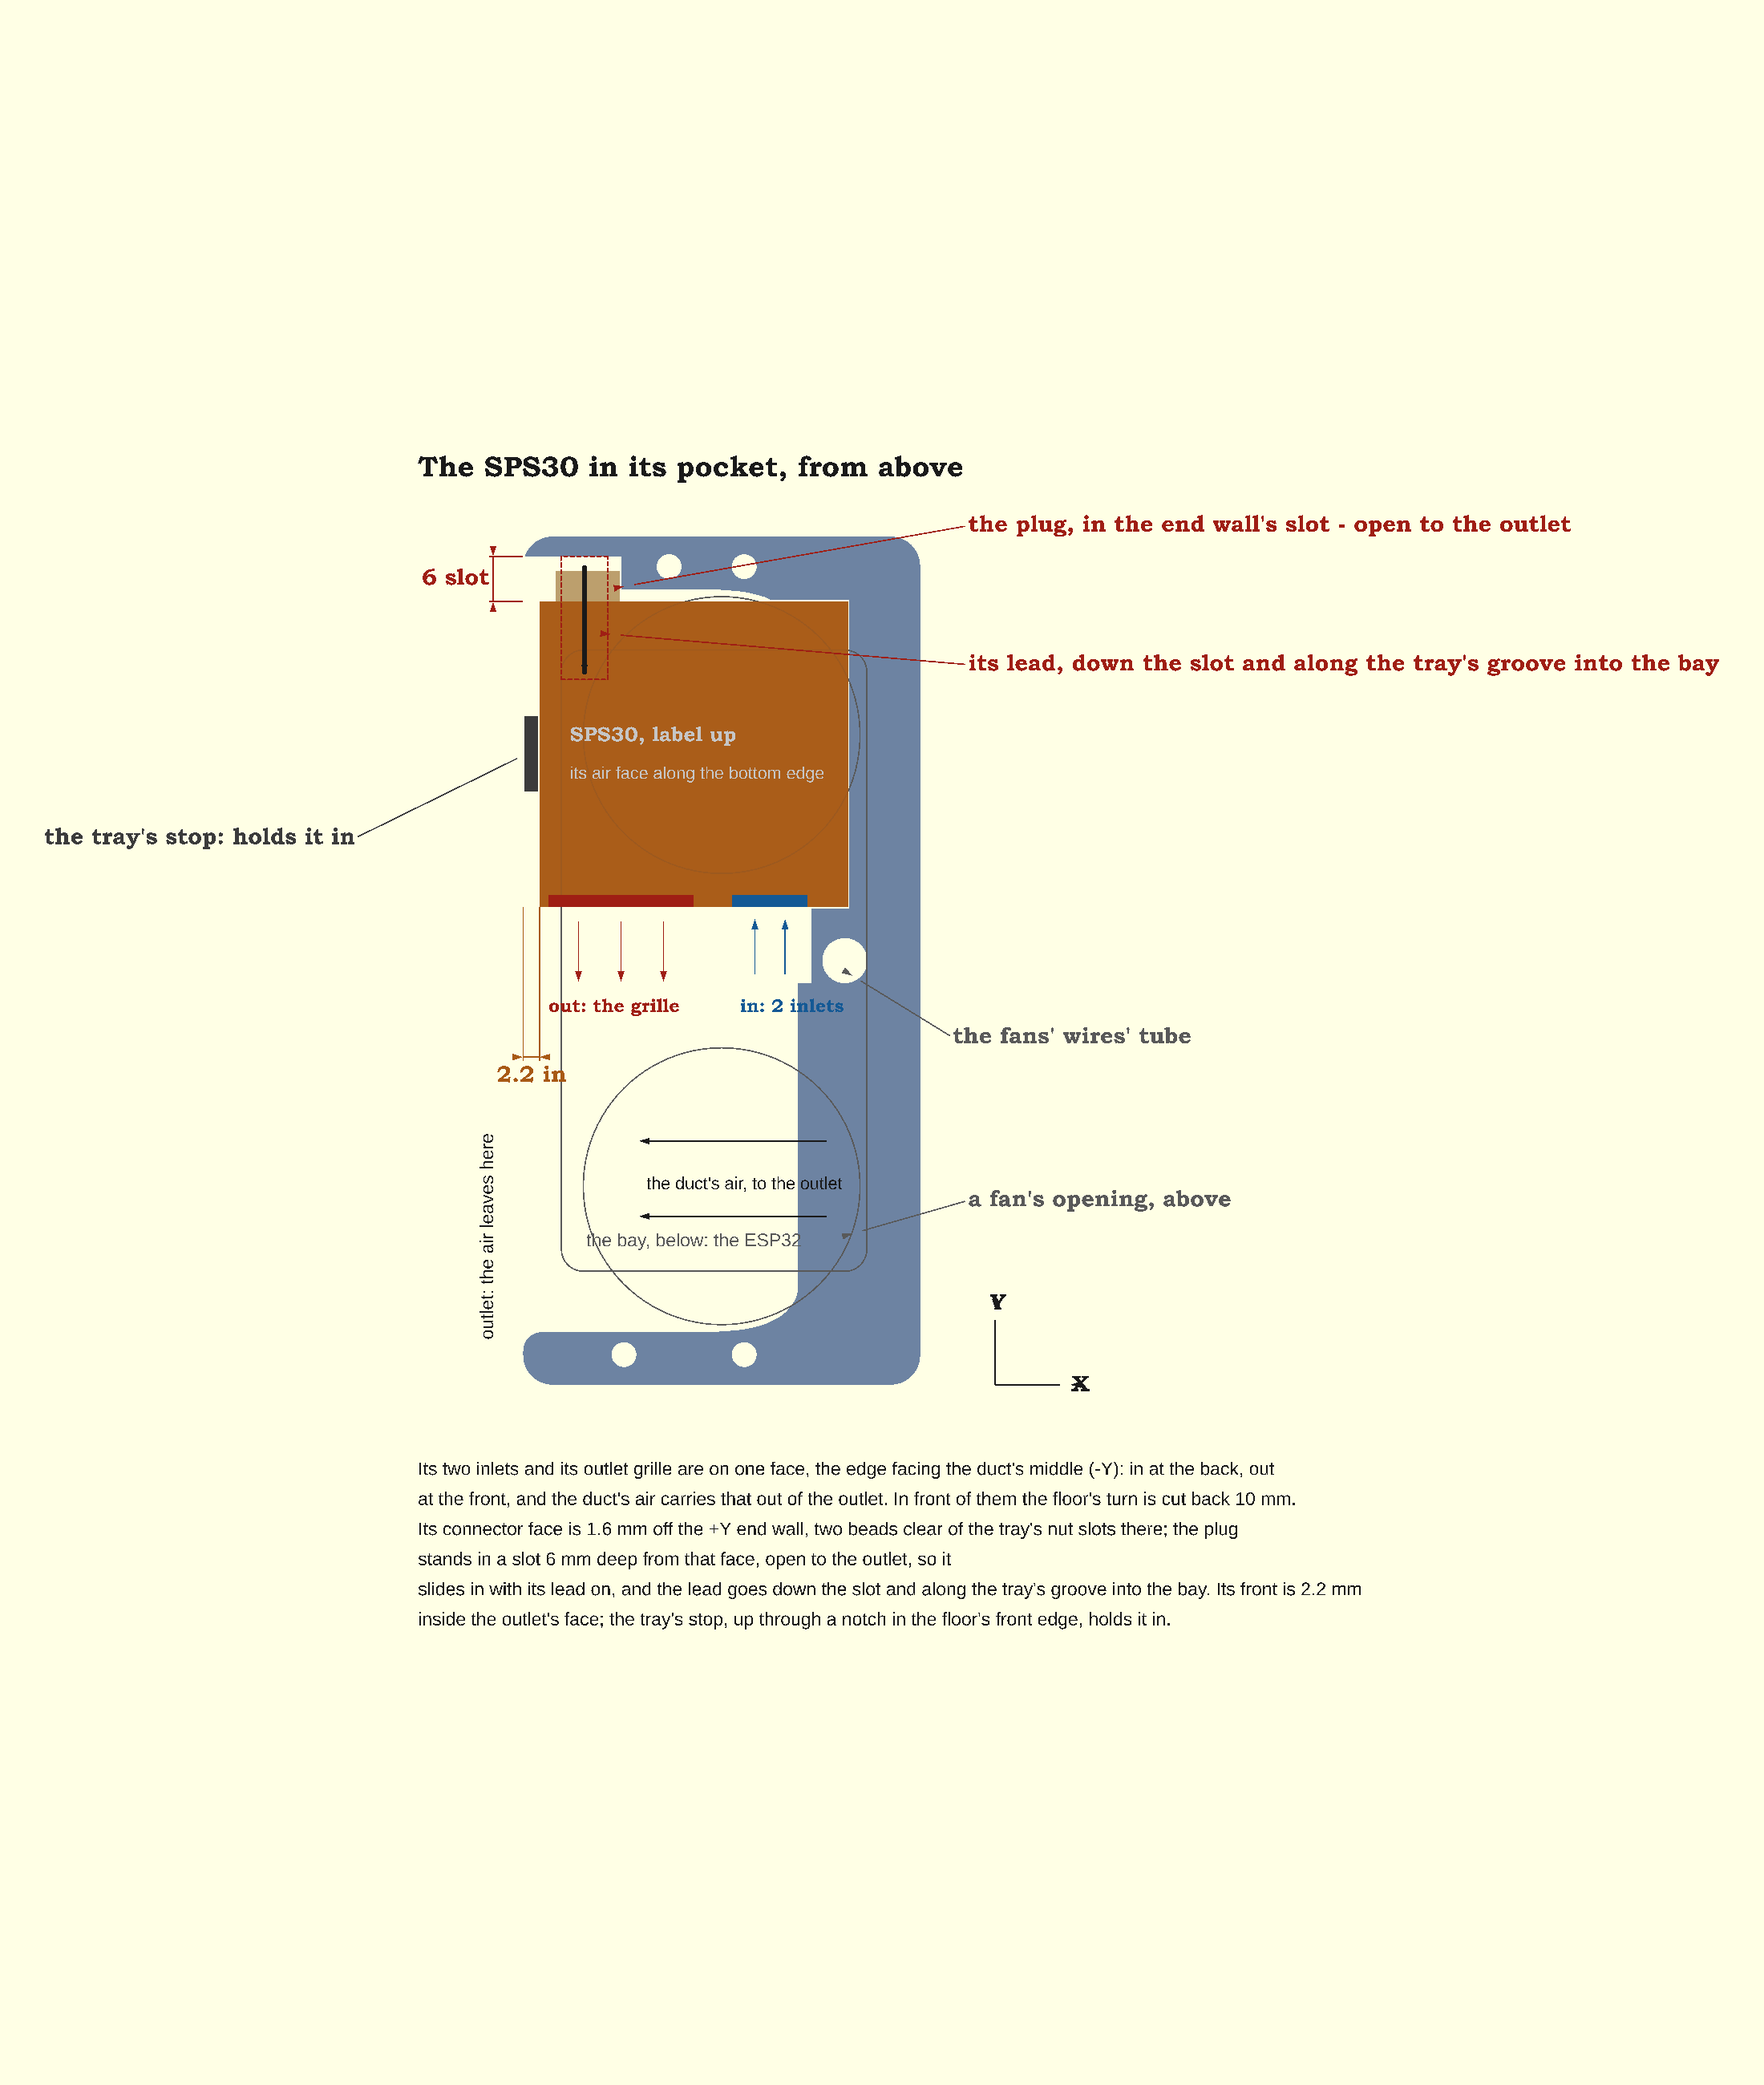
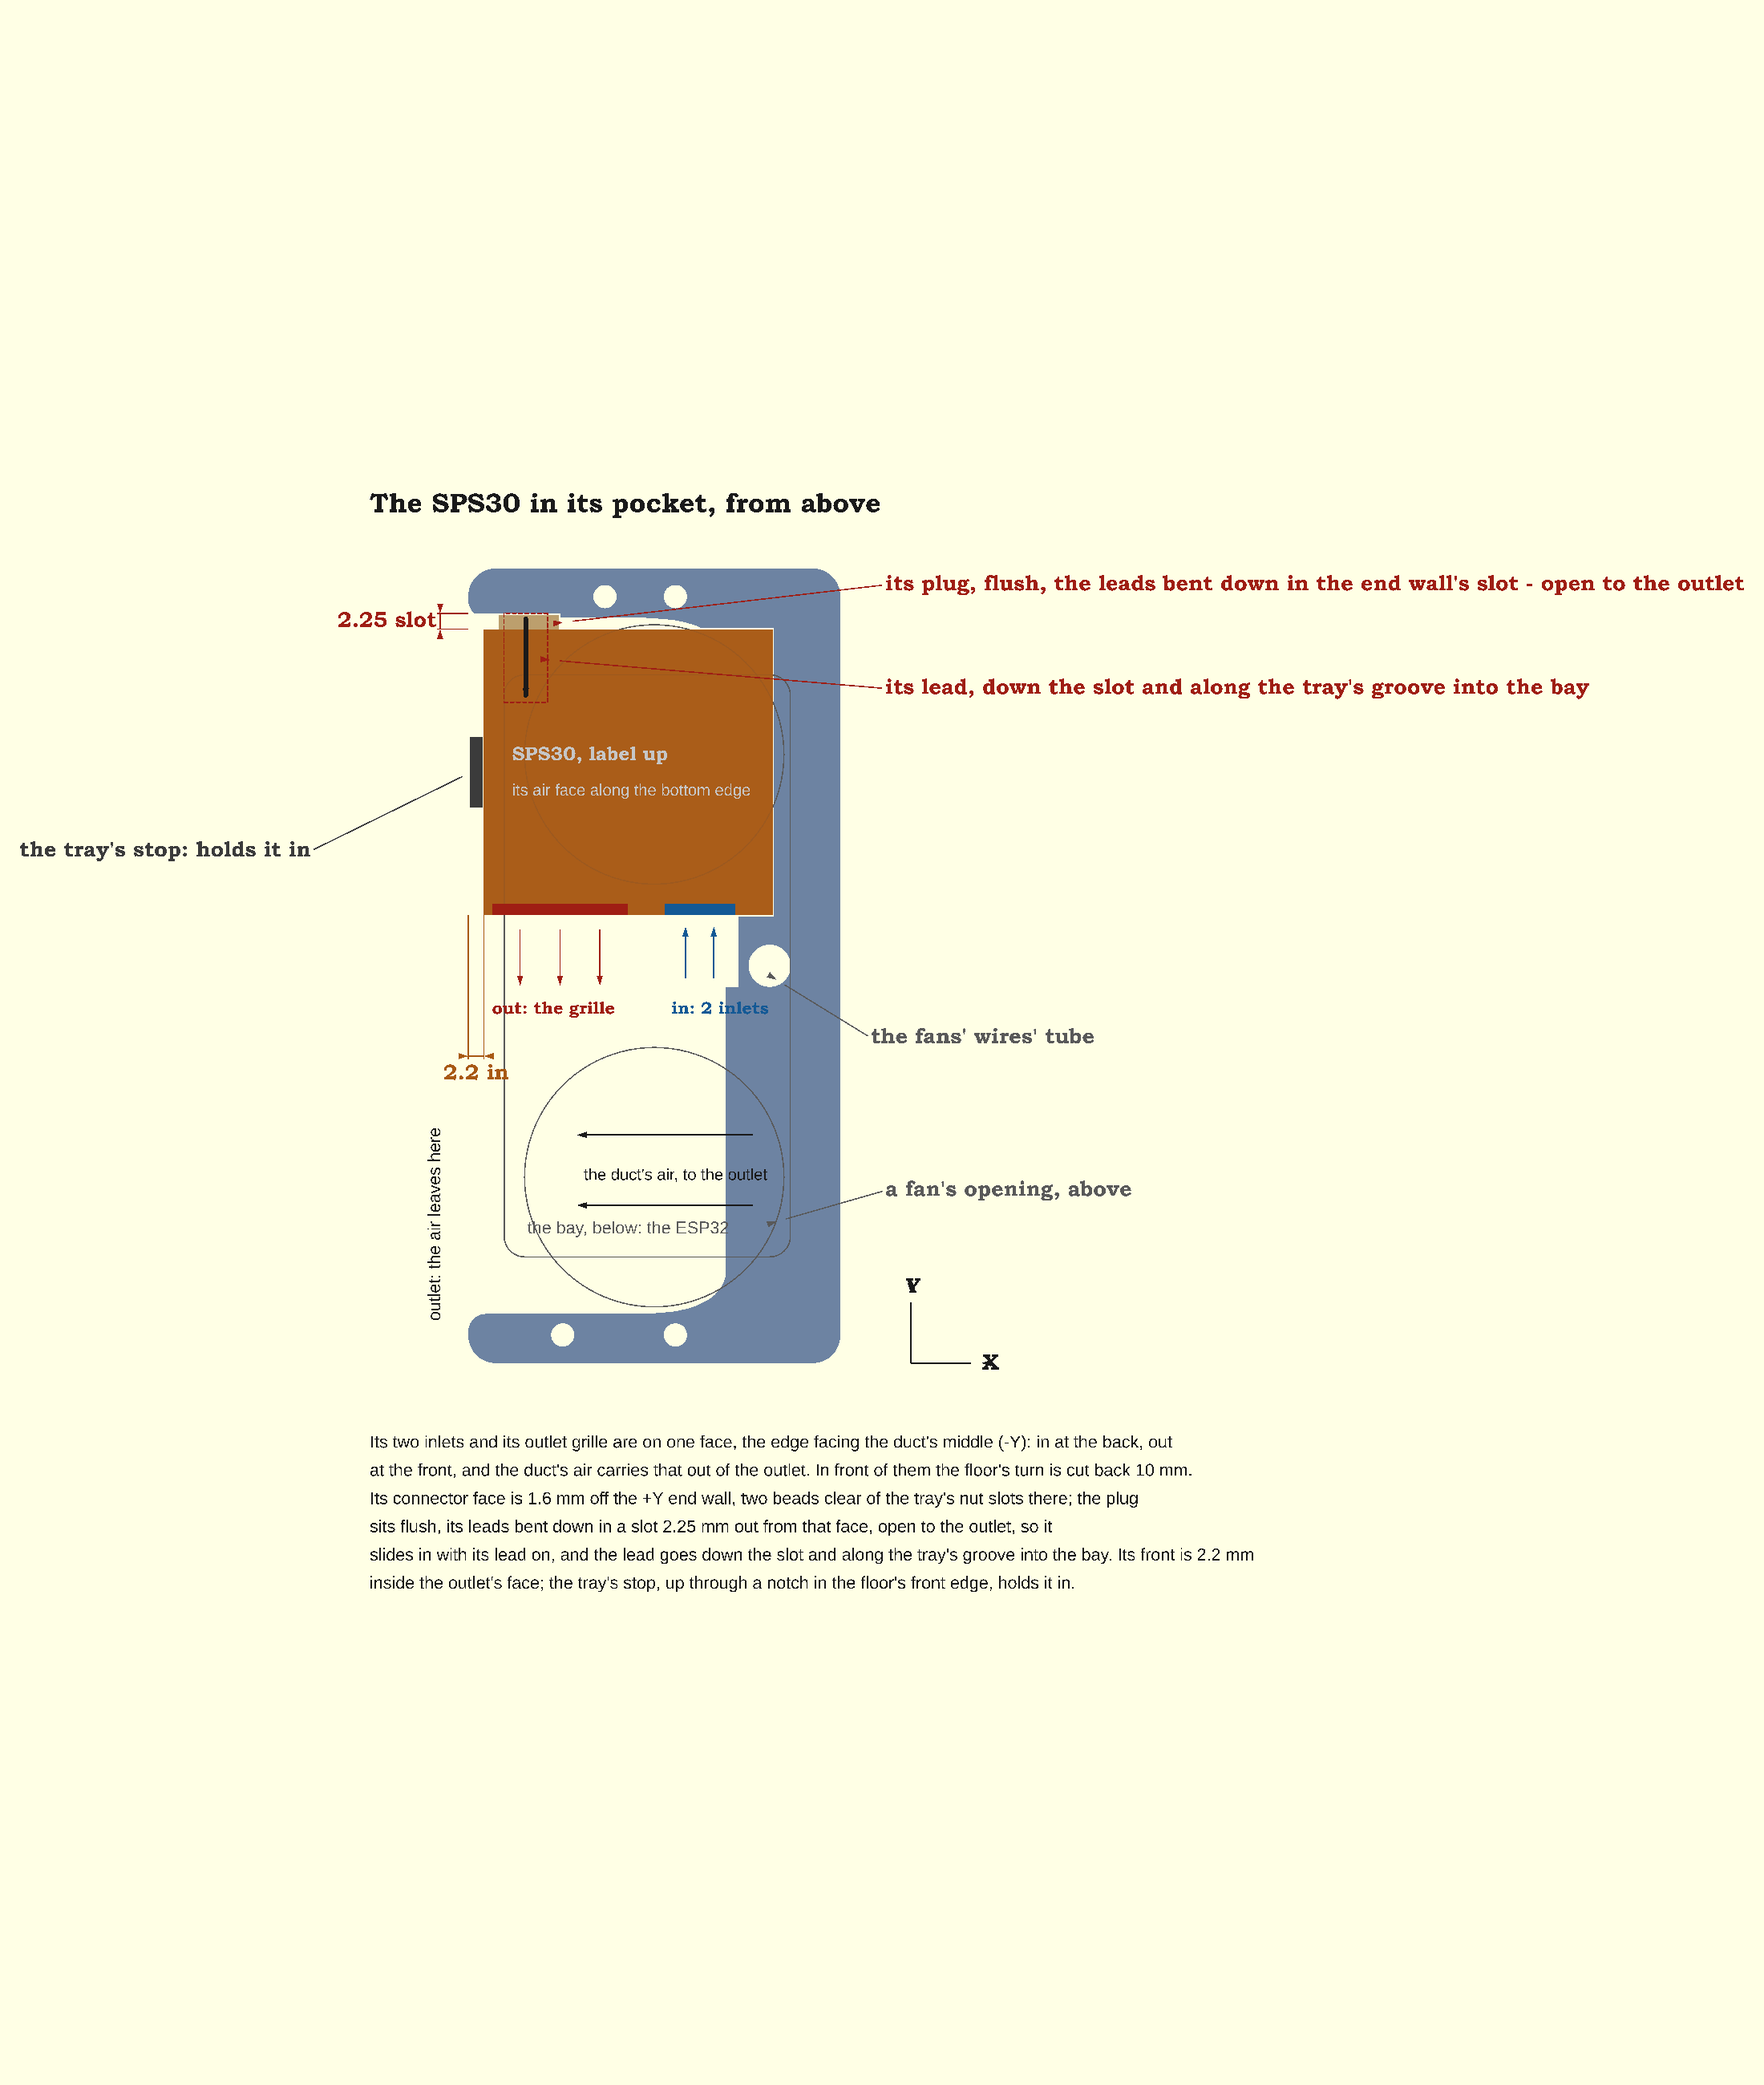
fix(bentobox): the SPS30's plug flush, its lead slot 2.25 mm
Alon measured it (14 Oct 2026, Q256): the plug sits flush in the SPS30's
face, and the leads turned down out of it reach 1.95 mm. The end wall's
slot now runs 0.3 mm past that bend, 2.25 mm out from the connector face:
0.6 mm into the wall, which keeps 6.4 mm behind it, where the 4 mm
placeholder left 2.6. Fits 53 of 53, controls 73 of 73; scad-check base
and tray clean.

A drawing of the +Y end wall from inside, with where the SGP41 could go
(Q248): in a recess over the SPS30, behind the fan screw's post.

diff --git a/scripts/checks/bentobox-checks.py b/scripts/checks/bentobox-checks.py
@@ -116,7 +116,7 @@ CONTROLS = [
     # leads are drawn from the sensor's own values, apart from the slot and groove that take them; the open air in
     # front of its openings is the checks' own number, so cutting less of the turn leaves it in the way.
     ("check_sps30", [("sps30_shift", "[0.4, 0, 0]")], "the SPS30 moved 0.4 mm back, into its pocket's back face"),
-    ("check_sps30_plug", [("sps30_slot_depth", "3")], "the end wall's slot cut 3 mm deep, shallower than the plug stands"),
+    ("check_sps30_plug", [("sps30_slot_play", "-1")], "the end wall's slot cut 1 mm short of the leads' bend"),
     ("check_sps30_air", [("sps30_air_room", "5")], "the floor's turn cut back only 5 mm in front of its openings"),
     ("check_sps30_lead", [("sps30_groove", "[6.2, 0.5]")], "the tray's groove cut 0.5 mm deep, under the leads"),
     ("check_sps30_way", [("sps30_shift", "[0, 0, -0.3]")], "the SPS30 set 0.3 mm down: its way in drags through the floor"),

diff --git a/docs/bentobox-scrubber.md b/docs/bentobox-scrubber.md
@@ -186,10 +186,10 @@ grille at the other; its connector is on the face opposite, near the outlet end.
 - **Its connector side lies along the +Y end wall** (Alon, 14 Oct 2026: D255), its face 1.62 mm off the wall's face:
   the tray's two nut slots at that end reach 0.5 mm in under the duct's edge, and the pocket stops two beads short
   of them - cut to the wall, it would take away the fillet over them and open them into it.
-- **Its plug stands in a slot in the end wall**, 6 mm deep from the connector face - the plug's stand-out and 2 mm
-  for its leads to turn down, a 1 mm lead round a 1 mm bend - leaving 2.62 mm of wall behind it. The slot is open to
-  the outlet, so the SPS30 slides in from the front with its lead on, and runs down to the base's bottom face. How
-  far the plug stands out is not measured yet (Q256): 4 mm is a placeholder.
+- **Its plug sits flush in its face**, and the leads, turned down out of it, reach 1.95 mm out (Alon measured both,
+  14 Oct 2026: Q256). They turn down in a slot that runs 2.25 mm out from the connector face - into the 1.6 mm
+  between it and the wall, and 0.6 mm on into the wall, which keeps 6.4 mm behind it. The slot is open to the outlet,
+  so the SPS30 slides in from the front with its lead on, and runs down to the base's bottom face.
 - **Its lead goes down the slot and along a groove in the tray's top into the bay**, to the ESP32: the bay stops at
   Y 41.4, 8 mm short of the end wall, so the slot alone does not reach it. The groove is 6.2 mm across and 1.5 deep.
   The +Y end's -X tray screw moved from X -13 to -7, out of the slot's way.
@@ -208,6 +208,14 @@ grille at the other; its connector is on the face opposite, near the outlet end.
 ![The SPS30 in its pocket, from above: its inlets and outlet grille on the edge facing the duct's middle, the duct's air running to the outlet, its plug on the opposite face with 10 mm of room, and its lead going down a slot into the bay](diagrams/bentobox/outlet-sensors-top.png)
 
 ![The base cut through the SPS30's middle and seen from the side: the SPS30 in its pocket, its inlets at the back and its outlet grille at the front, the floor's turn as it was dashed over it](diagrams/bentobox/outlet-sensors-side.png)
+
+**The SGP41 goes beside the SPS30, its leads down the same slot** (Alon, 14 Oct 2026: Q248). Where, proposed and
+not yet drawn into the model: in a recess in the +Y end wall over the SPS30, its sensor flush with the wall's face in
+the air the +Y fan blows down to the outlet, behind the fan screw's post on that wall, so the post stands over neither
+its sensor nor its screw. Its pins face the outlet; its four leads run along a short groove in the wall into the
+SPS30's slot. It is held as on the air-quality monitor: an M2.5 through its hole into the wall.
+
+![The +Y end wall seen from inside the duct: the SPS30 and the fan screw's post in front of it, the tray's screws behind, and the SGP41 in a recess over the SPS30, its leads along a groove into the SPS30's slot](diagrams/bentobox/outlet-sensors-wall.png)
 
 **Not upright against the back wall, openings down** (Alon asked, 14 Oct 2026), though that is Sensirion's best
 way round. Upright it is 40.6 tall, with open air wanted under its openings, and the duct is 36 from floor to fan
